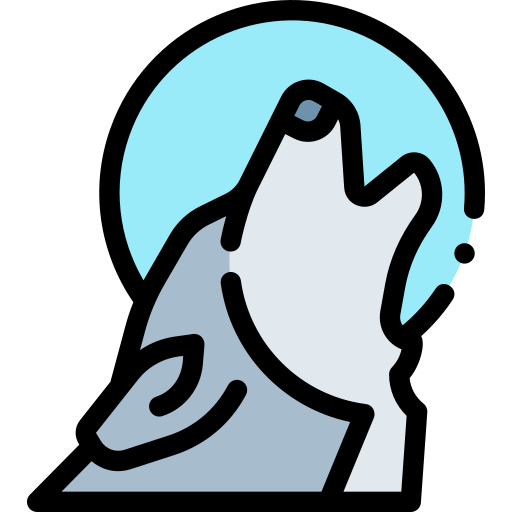
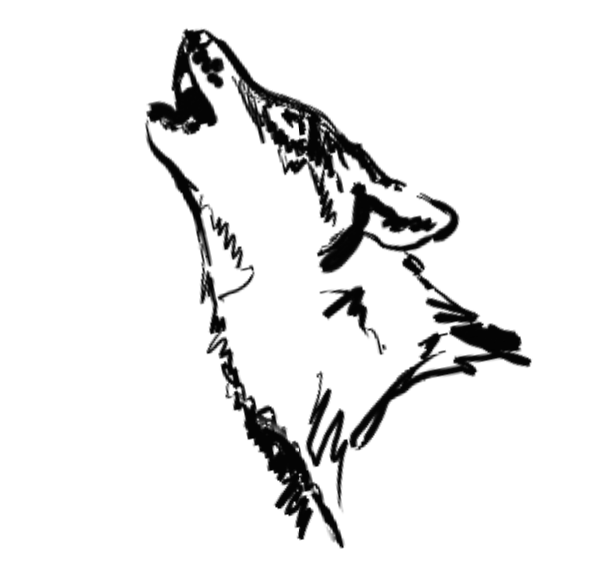
Add fixes

diff --git a/src/components/svg/Wolf.tsx b/src/components/svg/Wolf.tsx
@@ -1,0 +1,46 @@
+import React from "react";
+
+const Wolf: React.FC<SVGProps> = ({
+  width = "50px",
+  height = "50px",
+  fillColor = "var(--text-color)",
+}) => {
+  return (
+    <svg
+      xmlns="http://www.w3.org/2000/svg"
+      version="1.0"
+      width={width}
+      height={height}
+      viewBox="0 0 598.000000 583.000000"
+      preserveAspectRatio="xMidYMid meet"
+    >
+      <g
+        transform="translate(0.000000,583.000000) scale(0.100000,-0.100000)"
+        fill={fillColor}
+        stroke="none"
+      >
+        <path d="M1851 5526 c-7 -9 -10 -24 -6 -36 4 -13 1 -28 -7 -38 -18 -21 -58 -115 -64 -150 -2 -15 -11 -63 -19 -107 -28 -143 -36 -255 -19 -280 8 -12 16 -57 18 -105 l5 -83 -27 25 c-50 46 -135 66 -202 48 -31 -8 -40 -14 -31 -23 17 -17 13 -45 -9 -57 -21 -11 -27 -45 -9 -55 5 -4 14 -18 19 -31 10 -25 38 -31 69 -14 15 8 24 1 51 -38 19 -26 35 -49 36 -51 2 -2 10 1 18 8 11 9 17 8 29 -4 9 -8 27 -15 40 -15 28 0 54 24 37 35 -6 3 -8 11 -5 16 9 14 46 11 44 -3 -4 -23 23 -65 47 -77 13 -6 24 -7 24 -2 0 4 11 6 23 4 14 -3 31 2 40 11 8 9 20 16 25 16 5 0 13 15 18 33 8 27 15 33 43 35 23 2 37 -2 43 -11 9 -18 44 -12 71 11 18 16 24 77 8 87 -5 3 -13 20 -16 38 -7 33 -42 94 -105 182 -19 28 -45 70 -57 95 -11 25 -33 70 -47 101 -32 67 -50 163 -35 190 17 32 30 22 23 -17 -5 -29 -2 -40 17 -60 17 -18 30 -23 46 -19 20 5 23 2 23 -25 0 -29 29 -70 50 -70 6 0 10 -13 10 -29 0 -31 22 -61 45 -61 8 0 19 -9 25 -19 15 -29 48 -36 71 -15 28 25 25 70 -6 90 -33 22 -31 45 6 66 32 19 33 29 13 100 -7 24 -49 33 -81 19 -22 -10 -28 -9 -42 11 -9 13 -21 39 -27 59 -11 35 -9 39 23 74 33 36 35 37 51 18 41 -46 100 -120 118 -148 19 -30 30 -46 50 -68 5 -7 13 -19 17 -27 4 -8 16 -28 27 -45 42 -64 45 -73 27 -109 -12 -27 -13 -42 -5 -75 6 -22 14 -41 18 -41 4 0 11 -12 15 -27 6 -27 38 -103 54 -134 5 -8 22 -40 37 -70 16 -30 36 -63 46 -74 10 -10 23 -37 29 -60 23 -92 35 -120 49 -120 17 0 16 24 -1 92 -6 23 -9 49 -6 58 9 23 37 18 37 -6 0 -22 22 -49 39 -49 6 0 11 -13 11 -30 0 -16 4 -30 9 -30 5 0 14 -13 19 -29 7 -19 17 -29 29 -28 15 2 18 -6 18 -55 0 -73 12 -85 21 -20 8 62 20 84 34 62 5 -8 10 -25 10 -37 0 -31 44 -42 70 -18 18 16 19 16 34 -20 13 -31 19 -35 38 -30 13 4 36 19 52 34 27 25 28 25 22 3 -5 -14 -2 -27 8 -38 9 -8 16 -24 16 -34 0 -16 5 -18 29 -14 27 6 30 3 33 -22 2 -25 7 -28 28 -25 14 1 28 8 32 14 4 6 9 9 12 6 13 -12 9 -57 -9 -109 l-18 -55 -14 33 c-7 17 -20 32 -29 32 -11 0 -14 5 -10 16 6 14 -46 93 -66 102 -5 2 -8 10 -8 17 0 31 -47 25 -72 -10 -4 -5 -10 -2 -14 8 -6 16 -8 17 -24 2 -12 -11 -20 -13 -25 -6 -3 6 -10 11 -14 11 -13 0 -47 -33 -54 -53 -9 -24 -24 -14 -32 23 -4 17 -11 30 -16 30 -5 0 -5 -10 0 -22 4 -13 11 -44 15 -70 8 -55 19 -60 44 -18 l18 29 27 -31 c26 -29 28 -30 51 -14 14 8 37 31 52 51 14 19 32 35 39 35 12 0 17 -12 65 -167 15 -51 37 -109 49 -129 12 -19 21 -50 21 -68 0 -17 5 -37 11 -43 7 -7 8 -22 0 -49 -9 -34 -6 -84 6 -84 2 0 13 4 23 10 17 9 18 7 10 -20 -5 -16 -5 -32 -2 -34 11 -6 46 10 61 28 21 25 27 19 23 -26 -6 -61 14 -37 26 32 11 62 2 85 -31 74 -15 -5 -19 -3 -14 9 3 8 8 35 12 60 8 52 -6 68 -36 41 -22 -20 -23 -14 -8 39 13 47 6 75 -15 58 -21 -17 -25 7 -24 117 1 84 3 92 21 92 16 0 18 -5 13 -26 -14 -53 38 -73 66 -26 15 25 15 32 4 48 -8 11 -17 50 -21 87 -4 37 -12 67 -17 67 -5 0 -6 5 -3 10 3 6 13 10 22 10 9 0 21 7 28 16 10 15 14 10 24 -30 12 -50 31 -86 65 -123 38 -44 49 -18 17 45 -28 57 -34 92 -16 92 20 0 58 -21 68 -38 5 -7 19 -17 32 -22 13 -5 34 -28 45 -50 11 -22 31 -45 44 -50 15 -5 34 -29 50 -63 30 -64 44 -77 88 -82 18 -3 45 -14 60 -25 33 -24 37 -25 68 0 36 28 48 25 46 -12 -1 -31 1 -33 37 -36 27 -2 37 1 37 11 0 8 -7 18 -16 21 -8 3 -12 10 -9 16 4 7 13 6 27 -1 15 -8 23 -8 32 1 16 16 -16 37 -88 58 -68 19 -145 83 -224 186 -25 34 -63 78 -84 100 -21 21 -38 44 -38 52 0 17 -12 24 -55 29 -47 6 -62 15 -108 64 -21 23 -44 41 -51 41 -7 0 -30 25 -50 55 -80 121 -127 159 -261 214 -44 18 -84 37 -90 41 -16 12 -189 75 -199 72 -4 -1 -14 2 -20 8 -7 5 -15 8 -18 5 -3 -3 -18 1 -34 10 -16 8 -33 15 -39 15 -5 0 -44 24 -87 52 -58 40 -84 66 -109 108 -18 30 -35 57 -39 60 -4 3 -45 57 -92 120 -104 140 -119 156 -166 175 -20 9 -53 28 -72 44 -59 47 -73 51 -162 47 -45 -2 -88 0 -94 5 -7 6 -16 4 -23 -5z m222 -58 l21 -28 -24 -20 c-13 -11 -33 -20 -45 -20 -18 0 -21 5 -20 38 2 68 30 81 68 30z m-193 -58 c0 -5 -2 -10 -4 -10 -3 0 -8 5 -11 10 -3 6 -1 10 4 10 6 0 11 -4 11 -10z m-20 -76 c0 -14 -4 -22 -10 -19 -5 3 -10 17 -10 31 0 14 4 22 10 19 6 -3 10 -17 10 -31z m28 -256 c11 -22 32 -95 32 -110 0 -5 -6 -8 -13 -8 -7 0 -29 -11 -48 -25 -20 -13 -39 -21 -43 -18 -12 13 -6 109 9 129 8 10 15 27 15 37 0 25 34 21 48 -5z m581 -142 c-1 -28 2 -73 6 -101 5 -36 4 -46 -4 -35 -6 8 -13 34 -17 58 -3 23 -10 42 -14 42 -9 0 -30 46 -30 65 0 8 5 15 10 15 6 0 10 -9 10 -19 0 -11 5 -23 10 -26 6 -3 10 3 10 14 0 28 -11 52 -21 45 -5 -3 -9 2 -9 11 0 14 3 14 25 -1 23 -15 26 -23 24 -68z m71 -33 c0 -7 7 -13 15 -13 17 0 55 -35 55 -50 0 -5 9 -10 19 -10 27 0 35 -29 13 -54 -10 -12 -19 -34 -21 -51 -2 -16 -5 -32 -8 -35 -12 -12 -40 43 -53 103 -9 44 -21 74 -37 89 -13 12 -23 30 -23 40 0 16 3 16 20 6 11 -7 20 -18 20 -25z m-4 -72 c-3 -5 -1 -22 4 -40 5 -17 5 -31 0 -31 -5 0 -11 13 -15 30 -4 16 -11 32 -16 35 -5 4 -9 13 -9 21 0 12 4 12 20 4 11 -6 18 -15 16 -19z m324 -41 c0 -5 -5 -10 -11 -10 -5 0 -7 5 -4 10 3 6 8 10 11 10 2 0 4 -4 4 -10z m-107 -12 c3 -9 24 -13 61 -12 58 1 67 -5 41 -26 -8 -7 -15 -17 -15 -23 0 -5 -8 -15 -17 -22 -15 -11 -14 -16 18 -56 37 -49 45 -57 73 -79 18 -14 19 -13 13 16 -8 39 -2 46 29 32 25 -12 32 -27 36 -88 2 -28 8 -36 25 -38 17 -3 26 3 33 22 10 27 4 83 -12 102 -11 15 1 46 16 41 25 -8 36 -52 32 -122 -3 -38 -5 -79 -5 -89 -1 -16 -4 -17 -13 -8 -14 14 -67 16 -87 3 -9 -6 -23 -5 -37 1 -17 8 -27 8 -39 -2 -13 -10 -15 -9 -15 7 0 11 -11 33 -25 49 -14 16 -30 35 -36 42 -5 6 -18 12 -28 12 -12 0 -21 10 -25 26 -4 14 -20 33 -36 42 -19 11 -35 33 -45 62 -30 83 -29 80 -2 80 16 0 26 7 30 20 6 22 22 27 30 8z m215 -54 c12 -8 22 -21 22 -29 0 -11 -8 -10 -41 4 -22 10 -46 24 -52 30 -18 18 44 14 71 -5z m106 -48 c-3 -9 -10 -16 -15 -16 -14 0 -11 28 4 33 16 6 19 3 11 -17z m-1138 -33 c16 -21 18 -37 4 -28 -5 3 -18 1 -29 -5 -25 -13 -36 2 -21 30 13 25 29 26 46 3z m1339 -34 c25 -23 45 -49 45 -58 0 -11 -9 -6 -31 17 -17 18 -40 32 -53 32 -18 0 -23 6 -23 25 0 34 10 32 62 -16z m-1626 0 c11 -19 11 -21 -4 -15 -9 3 -19 6 -21 6 -2 0 -4 7 -4 15 0 21 13 19 29 -6z m201 -44 c0 -8 -2 -15 -4 -15 -2 0 -6 7 -10 15 -3 8 -1 15 4 15 6 0 10 -7 10 -15z m1424 -27 c15 -15 14 -16 -10 -14 -30 3 -67 32 -59 46 6 10 44 -7 69 -32z m-47 -36 c8 -5 10 -21 6 -45 -7 -46 -20 -40 -25 13 -4 41 -1 45 19 32z m110 -48 c-10 -10 -37 16 -37 34 0 13 4 12 22 -5 12 -13 19 -25 15 -29z m-273 -63 c3 -5 -1 -11 -9 -15 -9 -3 -15 0 -15 9 0 16 16 20 24 6z m206 -37 c0 -8 -4 -14 -10 -14 -5 0 -10 9 -10 21 0 11 5 17 10 14 6 -3 10 -13 10 -21z m531 -307 c-13 -13 -31 1 -31 23 0 19 1 19 20 3 12 -10 16 -21 11 -26z" />
+        <path d="M2320 5062 c0 -12 40 -82 47 -82 2 0 1 10 -3 23 -8 26 -44 74 -44 59z" />
+        <path d="M1466 4515 c6 -81 29 -163 61 -213 10 -15 46 -57 81 -94 35 -36 71 -77 80 -90 23 -31 72 -130 72 -144 0 -6 16 -29 35 -51 19 -23 35 -48 35 -56 0 -9 6 -22 13 -29 43 -45 109 -215 122 -313 3 -27 11 -68 18 -90 l11 -40 6 40 6 40 11 -35 c7 -23 7 -39 0 -48 -6 -7 -7 -41 -2 -85 4 -39 7 -87 7 -105 -1 -20 3 -30 10 -26 7 4 8 33 4 83 -9 91 3 86 33 -16 22 -75 41 -95 41 -44 0 43 -50 281 -84 406 -25 87 -14 132 39 163 19 11 19 11 -2 12 -13 0 -23 -4 -23 -10 0 -5 -6 -10 -14 -10 -12 0 -14 13 -11 58 3 56 3 56 -7 17 -13 -51 -15 -52 -33 -29 -22 28 -68 124 -62 130 3 3 16 -1 29 -10 15 -10 28 -12 38 -6 11 7 -2 24 -61 82 -41 40 -88 91 -105 113 -34 46 -97 109 -183 184 -78 68 -105 108 -142 213 l-28 83 5 -80z" />
+        <path d="M3368 4055 c-8 -91 24 -177 54 -147 15 15 2 86 -26 147 l-23 50 -5 -50z" />
+        <path d="M3523 3954 l-21 -42 25 -22 c21 -18 24 -27 19 -53 -4 -18 -11 -81 -17 -141 l-9 -109 -42 -36 c-22 -20 -47 -35 -54 -33 -29 6 -120 -68 -127 -104 -4 -25 17 -35 26 -11 2 6 7 9 11 5 11 -10 -84 -78 -109 -78 -26 0 -60 -34 -50 -50 9 -15 66 -5 76 12 5 7 11 10 14 7 3 -4 -10 -25 -30 -49 -37 -45 -44 -80 -20 -100 8 -7 15 -18 15 -25 0 -8 13 -16 30 -20 47 -10 127 32 199 106 65 66 157 197 167 237 4 12 12 22 19 22 25 0 139 -71 153 -96 9 -17 144 -54 198 -54 19 0 39 -9 52 -23 27 -29 27 -38 2 -60 -37 -31 -26 -62 34 -99 30 -18 57 -41 60 -52 3 -13 10 -17 22 -12 12 5 15 2 10 -10 -4 -10 12 -36 46 -75 47 -53 56 -59 81 -53 22 4 34 1 48 -15 11 -12 23 -21 27 -21 10 0 115 -101 110 -105 -2 -2 -40 7 -83 20 -94 29 -130 31 -139 9 -10 -25 11 -42 73 -60 31 -9 88 -26 126 -38 39 -11 75 -21 80 -21 6 0 16 -4 23 -8 6 -5 17 -5 22 -2 6 3 10 1 10 -5 0 -8 -9 -10 -27 -5 -16 4 -48 9 -73 11 -25 2 -56 7 -69 10 -26 6 -87 -21 -95 -42 -3 -7 7 -25 20 -39 l25 -27 127 6 c70 3 143 2 162 -2 l35 -9 -30 -6 c-16 -3 -58 -9 -93 -13 -56 -5 -64 -9 -73 -32 -5 -14 -9 -32 -7 -40 4 -22 163 -109 243 -134 39 -12 88 -33 110 -46 l40 -26 -30 -7 c-16 -4 -93 -12 -169 -18 -91 -7 -143 -15 -148 -23 -14 -23 -9 -46 12 -53 11 -3 20 -10 20 -15 0 -10 -22 -15 -159 -35 -130 -19 -186 -33 -231 -57 -51 -27 -66 -24 -45 8 9 14 25 34 36 45 23 23 165 126 182 132 26 9 -1 16 -31 8 -18 -5 -32 -6 -32 -2 0 5 25 46 55 91 30 45 55 86 55 91 0 4 14 10 30 14 41 9 38 26 -2 18 -42 -7 -40 -7 -60 1 -16 7 -82 -24 -98 -45 -3 -3 -15 -9 -27 -13 -13 -4 -23 -11 -23 -16 0 -4 -11 -11 -25 -14 -33 -8 -33 -36 -1 -36 14 0 28 6 33 12 4 8 10 0 14 -22 7 -31 4 -39 -23 -67 -26 -27 -29 -35 -18 -48 10 -12 8 -18 -11 -34 -13 -11 -40 -28 -59 -38 -19 -10 -39 -24 -43 -30 -4 -7 -14 -13 -22 -13 -8 0 -38 -24 -67 -52 -59 -58 -334 -376 -389 -449 -19 -25 -53 -70 -77 -99 -41 -50 -43 -56 -40 -109 3 -55 4 -56 33 -56 28 0 30 3 36 42 3 24 17 56 32 75 15 18 50 62 77 97 62 79 64 60 5 -39 -25 -41 -45 -82 -45 -91 0 -9 -7 -22 -15 -29 -8 -7 -15 -20 -15 -30 0 -10 -7 -20 -15 -24 -17 -6 -21 -36 -5 -36 6 0 41 30 78 68 72 72 133 177 191 327 31 80 54 115 78 115 7 0 13 3 13 8 0 4 22 18 50 31 27 13 69 41 92 62 46 42 139 91 203 108 22 6 103 22 180 35 l140 25 60 -20 c56 -20 60 -20 72 -3 22 30 15 62 -17 86 -16 12 -30 25 -30 30 0 4 20 8 45 8 24 0 90 9 146 20 110 21 129 20 200 -16 48 -24 175 -54 196 -47 13 5 26 50 18 64 -8 12 -66 37 -140 59 -61 18 -60 22 10 32 13 2 21 12 22 28 2 14 5 41 9 60 5 31 1 39 -29 68 -26 25 -50 36 -101 47 -37 8 -82 23 -99 33 -56 34 -78 37 -97 12 -12 -16 -23 -21 -39 -15 -12 3 -19 11 -15 16 12 21 -19 41 -53 34 l-33 -6 21 36 c21 34 21 37 4 55 -10 11 -24 20 -31 20 -49 0 -289 161 -431 288 -29 26 -65 57 -80 68 -23 18 -26 24 -14 37 7 9 10 21 6 26 -3 7 0 8 9 5 21 -8 21 29 0 64 -21 36 -82 82 -116 89 -15 3 -32 11 -38 18 -9 11 1 16 47 25 53 11 158 64 192 98 13 12 16 12 27 -3 37 -50 187 37 231 134 16 34 16 106 1 133 -31 54 -95 101 -168 123 -30 9 -76 28 -101 41 -26 13 -52 24 -59 24 -17 0 -42 -28 -31 -35 6 -3 15 3 21 12 10 16 11 16 6 1 -3 -11 5 -23 27 -36 18 -11 41 -27 52 -36 45 -36 146 -98 152 -93 11 12 33 -22 33 -50 0 -30 -53 -93 -78 -93 -6 0 -26 -13 -44 -28 -18 -16 -62 -39 -98 -52 -36 -12 -79 -34 -97 -47 -59 -45 -190 -64 -292 -42 -40 8 -60 20 -93 55 -23 24 -51 47 -62 50 -43 12 -96 38 -96 47 0 4 11 23 25 41 14 18 28 53 31 78 4 28 13 49 25 56 12 8 19 8 19 2 0 -5 5 -10 12 -10 10 0 38 -17 97 -57 2 -2 -3 -11 -12 -21 -34 -38 -13 -75 34 -62 26 8 29 6 29 -16 0 -17 7 -25 26 -30 35 -9 93 2 115 22 20 18 36 14 81 -18 14 -10 27 -10 63 0 34 9 51 9 67 1 17 -9 27 -6 62 18 46 33 59 63 27 63 -14 0 -23 9 -27 26 -7 27 -11 27 -72 8 -18 -5 -24 -2 -29 15 -6 24 -14 25 -63 11 -18 -5 -59 -7 -89 -4 -50 6 -60 11 -101 55 -25 26 -56 50 -70 54 -14 3 -51 28 -83 55 -31 26 -71 51 -89 55 -44 10 -58 22 -58 54 0 32 -8 42 -40 58 -45 22 -73 12 -97 -33z m-123 -484 c0 -5 -4 -10 -10 -10 -5 0 -10 5 -10 10 0 6 5 10 10 10 6 0 10 -4 10 -10z m783 -286 c40 -54 -8 -27 -52 29 -13 17 -13 17 10 7 13 -6 32 -23 42 -36z" />
+        <path d="M2106 3672 c-4 -7 1 -38 19 -120 4 -18 10 -21 30 -16 23 6 25 3 25 -30 0 -20 4 -36 9 -36 11 0 33 26 48 59 10 22 11 9 6 -75 -3 -56 -2 -107 1 -113 12 -19 44 6 57 44 17 47 28 26 18 -37 -15 -91 10 -137 45 -86 30 42 30 9 0 -94 -4 -13 0 -18 15 -18 28 0 56 119 39 173 -11 35 -38 52 -38 23 0 -7 -7 -20 -17 -27 -15 -13 -16 -8 -9 61 5 60 3 80 -9 95 -15 20 -15 20 -34 -2 -11 -13 -22 -23 -26 -23 -4 0 -5 33 -3 74 4 66 3 75 -14 79 -11 3 -24 -2 -31 -14 -17 -23 -27 -15 -27 20 0 55 -17 57 -41 6 -22 -46 -24 -48 -30 -25 -4 14 -7 40 -8 58 -1 30 -13 42 -25 24z" />
+        <path d="M3233 3363 c9 -2 23 -2 30 0 6 3 -1 5 -18 5 -16 0 -22 -2 -12 -5z" />
+        <path d="M2496 3163 c-4 -5 -24 -13 -44 -20 l-37 -12 49 5 c35 4 51 2 57 -8 6 -9 9 -4 9 15 0 26 -17 36 -34 20z" />
+        <path d="M2030 3160 c-4 -13 -9 -78 -15 -212 -7 -130 -6 -148 8 -148 11 0 19 17 28 56 12 55 13 55 26 30 8 -14 17 -26 21 -26 14 0 32 -65 32 -111 -1 -24 -6 -69 -14 -99 -7 -30 -12 -77 -12 -105 l1 -50 38 3 c20 2 37 1 37 -2 0 -3 -11 -16 -24 -30 -34 -38 -89 -145 -82 -162 8 -20 26 -9 95 56 48 44 71 59 71 46 0 -2 -11 -29 -25 -61 -33 -73 -27 -99 21 -90 30 5 34 3 34 -15 0 -27 -3 -36 -13 -32 -4 1 -17 -6 -28 -17 -18 -17 -19 -23 -9 -61 12 -46 56 -122 73 -129 6 -2 23 -17 38 -33 24 -26 29 -28 47 -17 25 16 30 12 38 -29 7 -35 -5 -42 -30 -16 -30 29 -39 11 -43 -84 l-3 -92 33 0 c18 0 38 5 44 11 18 18 25 -7 30 -99 2 -46 9 -94 16 -106 6 -12 10 -27 8 -35 -1 -7 0 -24 3 -37 5 -19 13 -24 36 -24 26 0 30 -3 30 -29 0 -23 5 -30 22 -33 15 -2 25 -13 31 -34 5 -16 18 -34 30 -40 12 -5 24 -18 26 -29 2 -11 9 -24 17 -28 10 -5 14 -27 14 -69 0 -59 0 -60 25 -55 18 3 29 -1 36 -14 5 -11 16 -16 25 -12 13 5 14 0 9 -31 -4 -21 -3 -36 3 -36 5 0 21 -12 35 -26 18 -18 32 -24 46 -19 12 3 21 4 21 1 0 -3 -29 -49 -65 -102 -36 -53 -65 -102 -65 -108 0 -6 9 -17 20 -24 26 -16 48 -5 85 44 35 46 44 31 16 -25 -25 -47 -28 -96 -7 -88 7 3 18 1 24 -5 6 -6 24 -1 52 17 23 14 44 25 46 23 2 -2 -3 -28 -11 -58 -19 -73 -19 -100 1 -100 14 0 16 -9 12 -56 -4 -44 -1 -57 12 -64 24 -13 35 0 49 54 7 27 27 87 46 133 36 89 35 116 -6 126 -15 4 -17 10 -8 40 8 30 6 40 -8 56 -10 12 -25 21 -35 21 -27 0 -23 39 5 44 73 15 87 15 87 1 0 -7 -4 -16 -10 -20 -12 -7 -3 -29 32 -81 15 -23 28 -44 28 -47 0 -20 78 -165 96 -179 24 -20 70 -106 66 -125 -3 -14 66 -113 79 -113 22 0 -1 120 -36 187 -8 15 -15 33 -15 39 0 20 -80 168 -99 184 -25 22 -41 54 -41 83 0 45 -47 135 -80 152 -16 8 -30 24 -30 33 0 10 -11 40 -24 68 -13 27 -26 61 -30 75 -3 14 -17 42 -31 63 -14 20 -25 43 -25 50 0 7 -7 36 -15 64 -18 58 -45 81 -69 57 -13 -13 -17 -12 -35 12 -21 26 -25 36 -36 106 -6 36 -26 49 -40 26 -14 -22 -46 31 -56 91 -13 83 -25 108 -54 122 -22 10 -34 8 -80 -15 -60 -29 -57 -31 -70 50 -8 48 -39 83 -57 65 -23 -23 -35 -11 -46 50 -7 36 -20 70 -33 84 -11 12 -28 53 -38 91 -11 47 -21 67 -30 65 -22 -5 -29 17 -26 80 4 71 -11 108 -43 108 -20 0 -22 4 -16 23 8 24 7 64 -2 78 -12 20 -48 6 -94 -37 -59 -55 -64 -46 -15 25 48 70 67 91 82 91 17 0 26 35 18 78 -9 54 -18 66 -42 53 -28 -15 -40 15 -47 114 -7 108 -41 288 -55 293 -6 2 -11 12 -11 22 0 9 -6 23 -14 29 -11 9 -15 7 -20 -11 -3 -13 -6 -33 -6 -46 0 -14 -4 -21 -11 -16 -7 4 -9 23 -6 48 3 22 2 50 -3 61 -5 11 -9 18 -10 15z m17 -162 c-3 -8 -6 -5 -6 6 -1 11 2 17 5 13 3 -3 4 -12 1 -19z m282 -949 c3 -24 3 -24 -18 -5 -11 10 -18 23 -15 28 10 16 29 2 33 -23z m99 -235 c-10 -10 -28 6 -28 24 0 15 1 15 17 -1 9 -9 14 -19 11 -23z m80 4 c15 -15 15 -30 -1 -52 -12 -16 -15 -16 -41 9 -27 25 -27 27 -10 40 23 18 37 18 52 3z m209 -153 c-5 -11 -11 -21 -12 -23 -5 -6 -75 27 -75 36 0 4 15 15 33 24 29 14 33 14 48 -1 12 -12 14 -21 6 -36z m-7 -65 c0 -5 -9 -10 -21 -10 -11 0 -17 5 -14 10 3 6 13 10 21 10 8 0 14 -4 14 -10z m-55 -30 c-3 -5 -10 -10 -16 -10 -5 0 -9 5 -9 10 0 6 7 10 16 10 8 0 12 -4 9 -10z m125 -239 c-1 -16 -23 -51 -33 -51 -10 0 -19 59 -12 81 6 19 8 20 26 3 10 -9 19 -24 19 -33z m210 -1 c0 -13 -5 -18 -15 -14 -8 4 -15 12 -15 20 0 8 7 14 15 14 8 0 15 -9 15 -20z m-97 -244 c4 -9 -5 -21 -19 -31 -32 -21 -37 -16 -21 18 13 29 32 35 40 13z m117 0 c0 -3 -4 -8 -10 -11 -5 -3 -10 -1 -10 4 0 6 5 11 10 11 6 0 10 -2 10 -4z m-13 -58 c-3 -8 -6 -5 -6 6 -1 11 2 17 5 13 3 -3 4 -12 1 -19z m43 -32 c0 -11 -19 -15 -25 -6 -3 5 1 10 9 10 9 0 16 -2 16 -4z m140 -81 c0 -8 -4 -15 -8 -15 -16 0 -32 25 -32 49 l0 25 20 -22 c11 -12 20 -28 20 -37z m-233 -142 c-16 -16 -17 -16 -17 3 0 26 11 37 24 24 7 -7 5 -16 -7 -27z" />
+        <path d="M2493 3049 c-50 -69 -88 -94 -205 -139 -89 -33 -115 -51 -103 -70 10 -17 32 -12 60 15 15 13 50 31 79 39 98 29 185 104 206 177 5 18 9 33 7 34 -1 1 -21 -24 -44 -56z" />
+        <path d="M3530 2943 c-19 -13 -40 -17 -87 -14 -68 3 -123 -6 -123 -20 0 -5 25 -9 55 -9 41 0 55 -4 55 -15 0 -7 -6 -18 -14 -22 -51 -29 -186 -152 -186 -169 0 -7 12 -21 28 -32 l27 -19 98 78 c97 79 125 95 112 62 -36 -90 -26 -114 49 -115 41 -1 47 -4 45 -22 -4 -58 4 -83 38 -121 l36 -40 -7 54 c-4 30 -2 86 5 129 12 75 12 75 -13 97 -36 31 -38 43 -17 99 17 46 17 50 1 72 -21 28 -67 32 -102 7z" />
+        <path d="M3220 2910 c-21 -7 -21 -8 -5 -9 11 0 27 4 35 9 18 11 5 11 -30 0z" />
+        <path d="M3699 2527 c32 -16 69 -87 85 -165 14 -63 21 -80 31 -70 8 7 -23 136 -42 178 -24 51 -43 70 -72 70 l-26 0 24 -13z" />
+        <path d="M3822 2363 c2 -10 11 -19 21 -21 16 -3 17 -1 7 17 -13 25 -33 28 -28 4z" />
+        <path d="M4400 2310 c-12 -8 -12 -10 5 -10 11 0 27 5 35 10 12 8 12 10 -5 10 -11 0 -27 -5 -35 -10z" />
+        <path d="M3185 2090 c-10 -11 -15 -23 -11 -27 4 -4 11 -1 15 6 7 11 11 9 20 -5 9 -17 10 -16 11 8 0 35 -13 42 -35 18z" />
+        <path d="M3198 2015 c-1 -16 -2 -41 -3 -55 -1 -14 -4 -32 -7 -40 -9 -22 -98 -319 -98 -325 0 -3 7 -5 15 -5 21 0 19 -18 -10 -98 -32 -88 -32 -143 0 -207 13 -27 25 -58 25 -67 0 -25 36 -59 54 -52 8 3 22 31 31 62 36 121 134 332 155 332 5 0 0 -30 -11 -67 -11 -38 -27 -107 -35 -156 -15 -80 -15 -89 0 -112 13 -20 22 -23 47 -18 30 6 30 5 24 -28 -14 -77 -10 -374 5 -398 9 -16 17 40 19 139 3 140 21 285 47 388 19 73 23 107 16 114 -18 18 -38 2 -69 -52 -36 -63 -48 -54 -27 21 72 250 79 339 28 339 -19 0 -149 -224 -190 -328 -19 -48 -40 -97 -46 -109 l-11 -23 -19 30 c-10 17 -18 43 -18 58 0 23 53 189 80 247 52 115 81 190 95 244 17 66 15 91 -7 91 -14 0 -26 -16 -70 -95 -23 -42 -35 -47 -29 -12 0 4 7 46 15 95 8 52 11 93 5 102 -6 11 -9 7 -11 -15z" />
+        <path d="M2270 1979 c0 -5 5 -7 10 -4 6 3 10 8 10 11 0 2 -4 4 -10 4 -5 0 -10 -5 -10 -11z" />
+        <path d="M2264 1910 c2 -50 5 -55 27 -58 21 -2 22 -1 9 10 -8 7 -17 27 -18 43 -7 57 -21 61 -18 5z" />
+      </g>
+    </svg>
+  );
+};
+
+export default Wolf;

diff --git a/src/components/Layout.tsx b/src/components/Layout.tsx
@@ -9,8 +9,8 @@ import { Link as GatsbyLink } from "gatsby";
 import GlobalStyle from "../globalStyles";
 import Animation from "./base/Animation";
 import Button from "./base/Button";
-import { StaticImage } from "gatsby-plugin-image";
 import Burger from "./svg/Burger";
+import Wolf from "./svg/Wolf";
 
 type LayoutProps = {
   children: React.ReactNode;
@@ -168,11 +168,7 @@ const Layout: React.FC<LayoutProps> = ({ children, showFooter = true }) => {
       <Header>
         <AnimatedLinks type="fadeDown" duration={200}>
           <a aria-current="page" aria-label="home" href="/">
-            <StaticImage
-              src="../../static/wolf.png"
-              alt="Howling wolf logo"
-              style={{ maxWidth: "3rem" }}
-            />
+            <Wolf width="5rem" height="5rem" />
           </a>
           {smallScreen ? (
             <BurgerBox

diff --git a/src/components/Contact.tsx b/src/components/Contact.tsx
@@ -1,8 +1,8 @@
-import { StaticImage } from "gatsby-plugin-image";
 import React from "react";
 import styled from "styled-components";
 import Animation from "./base/Animation";
 import Button from "./base/Button";
+import Wolf from "./svg/Wolf";
 
 const ContactCard = styled.div`
   display: flex;
@@ -47,11 +47,7 @@ const Contact: React.FC = () => {
         please don't hesitate and write to:
       </p>
       <Profile>
-        <StaticImage
-          src="../../static/wolf.png"
-          alt="Howling wolf"
-          style={{ maxWidth: 150 }}
-        />
+        <Wolf width="10rem" height="10rem" />
         <ContactData>
           <Name>
             <u>Leda Wolf</u>

diff --git a/gatsby-config.ts b/gatsby-config.ts
@@ -76,8 +76,8 @@ const config: GatsbyConfig = {
         name: "Leda Wolf",
         short_name: "Leda",
         start_url: "/",
-        background_color: "#121212",
-        theme_color: "#341677",
+        background_color: "#341677",
+        theme_color: "#121212",
         // Enables "Add to Homescreen" prompt and disables browser UI (including back button)
         // see https://developers.google.com/web/fundamentals/web-app-manifest/#display
         display: "standalone",

diff --git a/src/components/HeroBanner.tsx b/src/components/HeroBanner.tsx
@@ -11,7 +11,7 @@ const HeroCard = styled.div`
   gap: 5rem;
   align-items: center;
 
-  @media (max-width: 1000px) {
+  @media (max-width: 1015px) {
     display: flex;
     flex-direction: column;
     align-items: flex-start;
@@ -54,6 +54,10 @@ const Purpose = styled.h2`
   margin: 0;
   text-align: end;
   text-shadow: var(--background-color) 0 0 20px;
+
+  @media (max-width: 749px) {
+    display: none;
+  }
 `;
 
 const ActionButtons = styled(Animation)`
